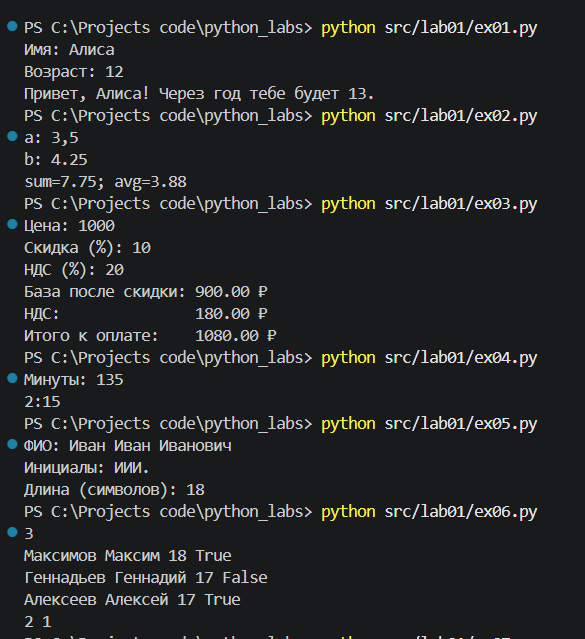
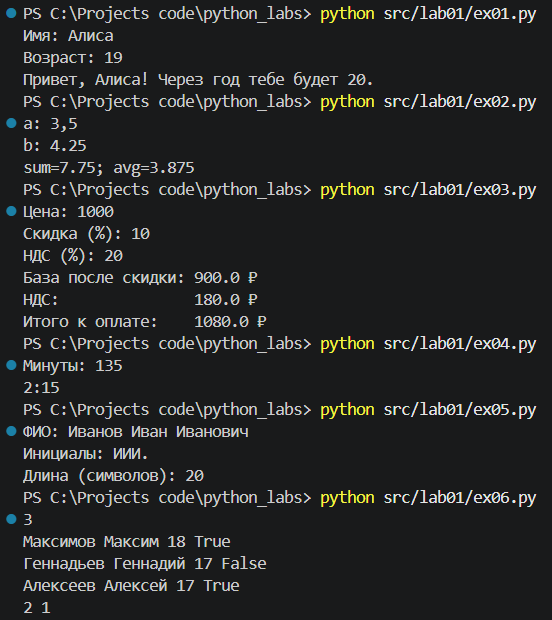
Небольшие правки

Changed region(s): [[0.0, 0.0, 0.9855, 1.0], [0.7083, 0.9806, 0.7391, 1.0]]

diff --git a/src/lab01/ex03.py b/src/lab01/ex03.py
@@ -4,6 +4,6 @@ v = float(input("НДС (%): ").replace(",", "."))
 b = p * (1 - d / 100)
 vat = b * v / 100
 t = b + vat
-print(f"База после скидки: {b:.2f} ₽")
-print(f"НДС:               {vat:.2f} ₽")
-print(f"Итого к оплате:    {t:.2f} ₽")
+print(f"База после скидки: {b} ₽")
+print(f"НДС:               {vat} ₽")
+print(f"Итого к оплате:    {t} ₽")

diff --git a/src/lab01/ex07.py b/src/lab01/ex07.py
@@ -1,7 +1,17 @@
 
 e = input().strip()
-s = next(i for i in range(len(e)) if e[i].isupper())
-d = next(i for i in range(s + 1, len(e)) if e[i].isdigit())
+s = 0
+for i in range(len(e)):
+    if e[i].isupper():
+        s = i
+        break
+
+d = 0
+for i in range(s + 1, len(e)):
+    if e[i].isdigit():
+        d = i
+        break
+
 k = d - s + 1
 
 z = []

diff --git a/src/lab01/ex02.py b/src/lab01/ex02.py
@@ -1,4 +1,4 @@
 a = float(input("a: ").replace(",", "."))
 b = float(input("b: ").replace(",", "."))
 s = a + b
-print(f"sum={s:.2f}; avg={s / 2:.2f}")
+print(f"sum={s}; avg={s / 2}")
